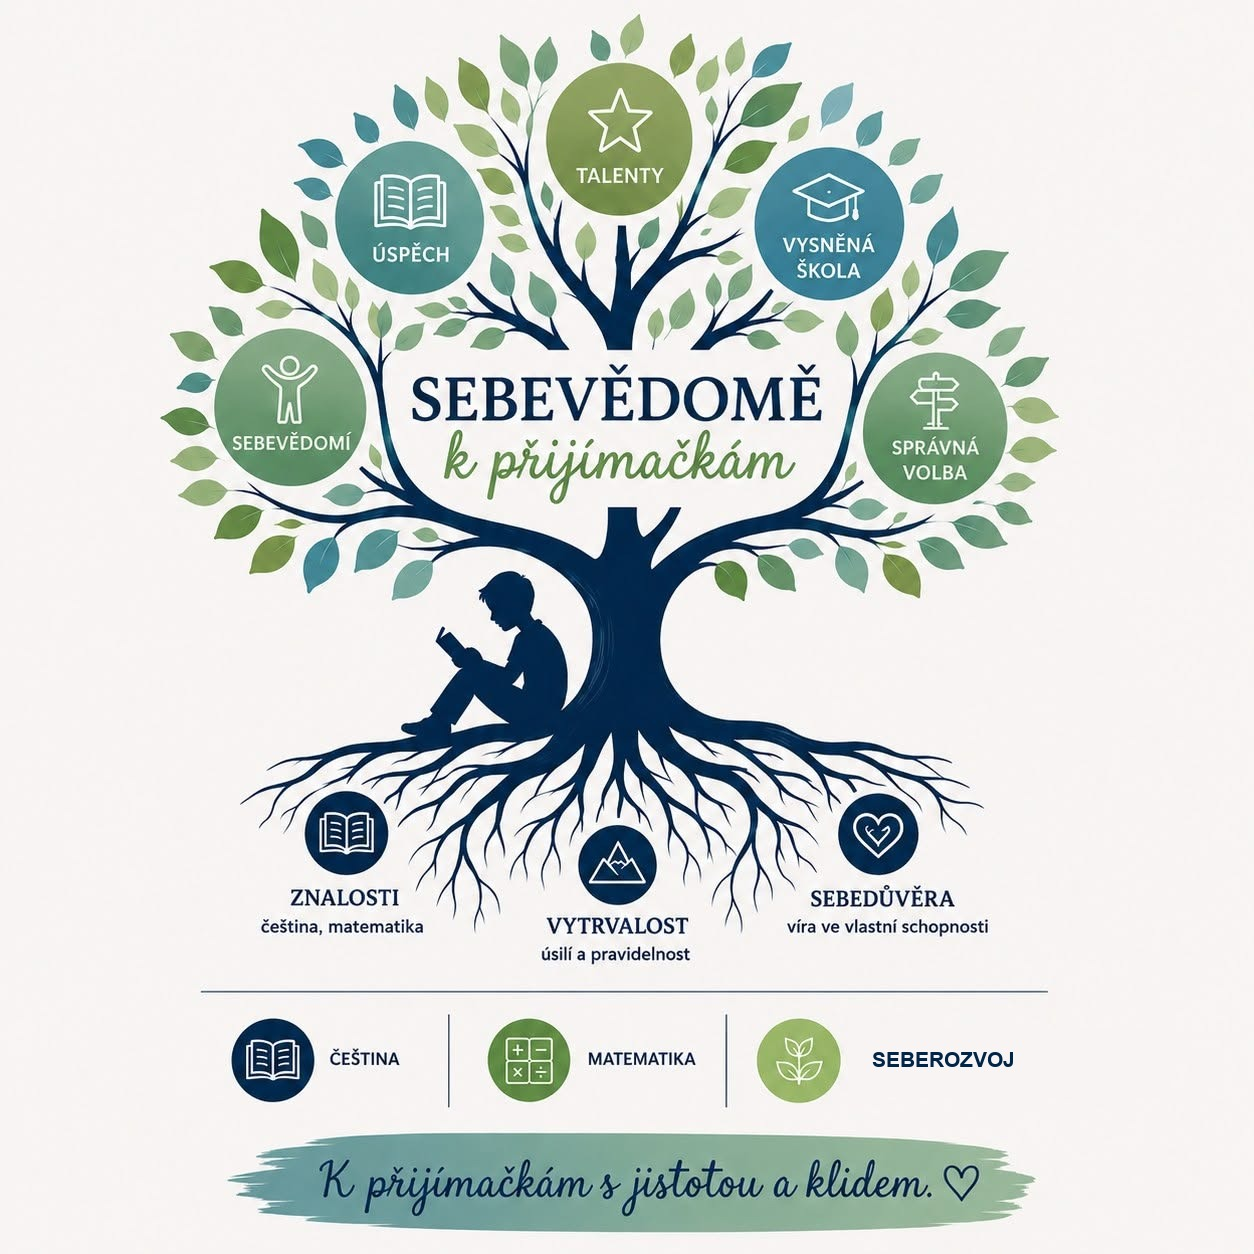
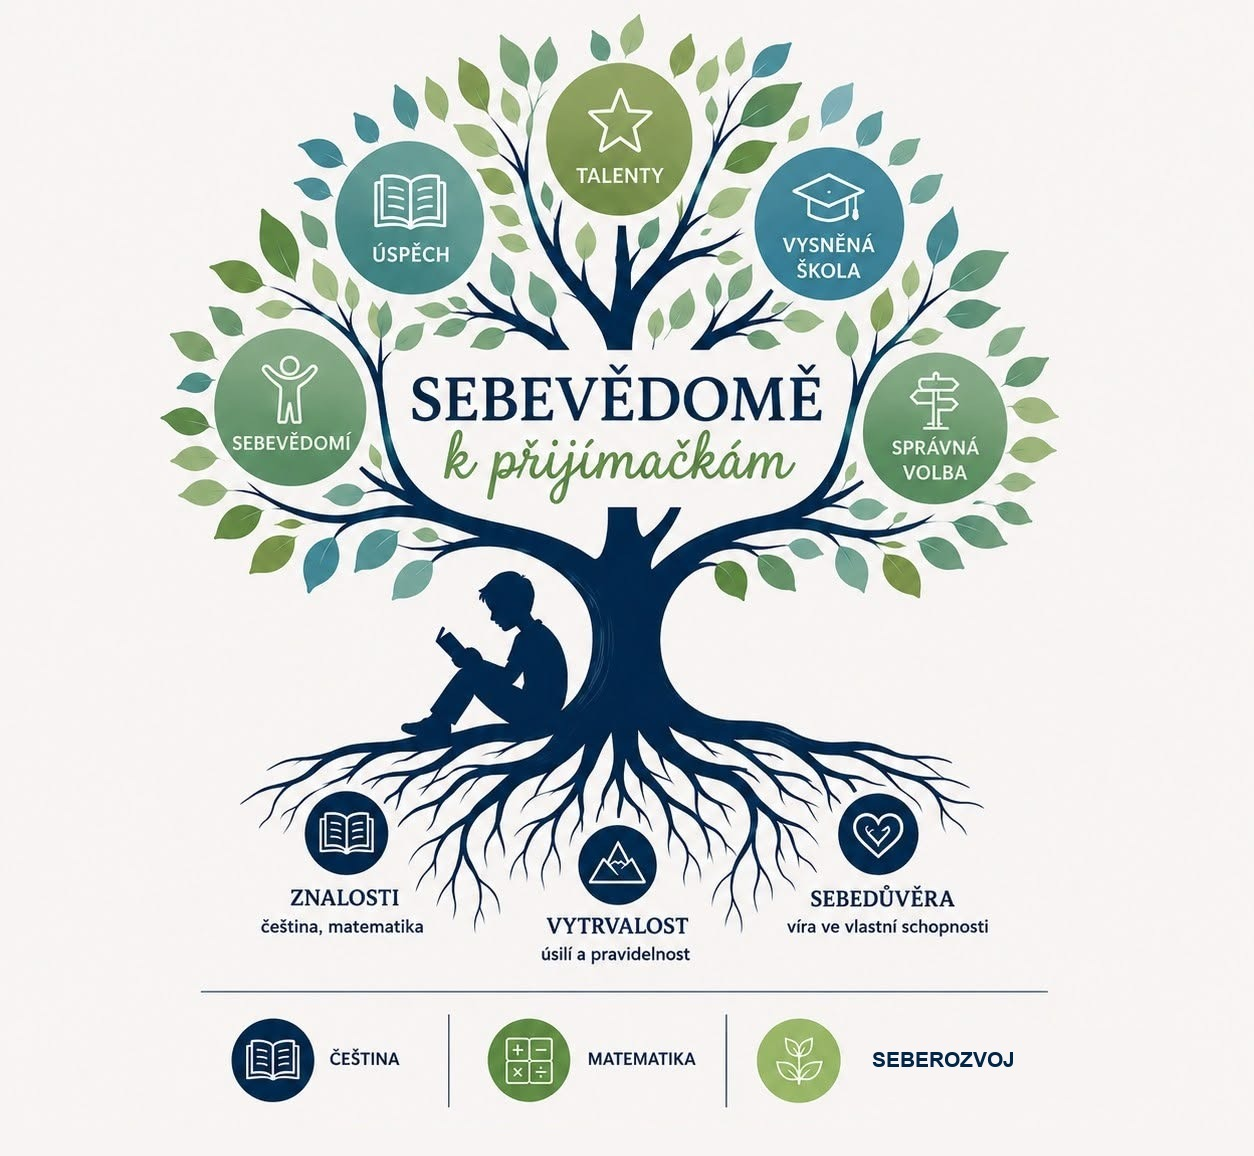
Slogan pod stromem místo textu v obrázku
Odstraněn spodní pruh s textem ze stromového obrázku na hlavní straně, text 'K přijímačkám s jistotou a klidem.' je nyní samostatný slogan pod obrázkem.

Changed region(s): [[0.1244, 0.0311, 0.8397, 0.9965]]

diff --git a/index.html b/index.html
@@ -7,7 +7,7 @@
 <link rel="preconnect" href="https://fonts.googleapis.com">
 <link rel="preconnect" href="https://fonts.gstatic.com" crossorigin>
 <link href="https://fonts.googleapis.com/css2?family=Poppins:ital,wght@0,400;0,500;0,600;0,700;1,600&family=Caveat:wght@600;700&display=swap" rel="stylesheet">
-<link rel="stylesheet" href="css/styles.css?v=173">
+<link rel="stylesheet" href="css/styles.css?v=174">
 </head>
 <body>
 
@@ -95,7 +95,11 @@
     </div>
     <div class="container how-inner">
       <div class="how-media">
-        <img src="assets/images/strom-social.jpg?v=2" alt="Strom Sebevědomě k přijímačkám" class="tree-graphic">
+        <img src="assets/images/strom-social.jpg?v=3" alt="Strom Sebevědomě k přijímačkám" class="tree-graphic">
+        <p class="tree-slogan">
+          K přijímačkám s jistotou a klidem.
+          <svg viewBox="0 0 24 24" fill="none" stroke="currentColor" stroke-width="1.6"><path d="M12 20s-7-4.5-9-9c-1.3-3 1-6 4-6 2 0 3.5 1.2 5 3 1.5-1.8 3-3 5-3 3 0 5.3 3 4 6-2 4.5-9 9-9 9Z"/></svg>
+        </p>
       </div>
       <div class="how-text">
         <ul class="how-list">

diff --git a/css/styles.css b/css/styles.css
@@ -264,6 +264,20 @@ a { color: inherit; text-decoration: none; }
 /* How */
 .how-inner { display: grid; grid-template-columns: 0.9fr 1.1fr; gap: 48px; align-items: center; }
 .tree-graphic { border-radius: 16px; }
+.tree-slogan {
+  font-family: var(--font-sans);
+  font-style: italic;
+  font-weight: 600;
+  font-size: 1.1rem;
+  color: var(--color-navy);
+  text-align: center;
+  margin: 16px 0 0;
+  display: flex;
+  align-items: center;
+  justify-content: center;
+  gap: 8px;
+}
+.tree-slogan svg { width: 22px; height: 22px; color: var(--color-accent); flex-shrink: 0; }
 .how-list { list-style: none; padding: 0; margin: 0; display: flex; flex-direction: column; gap: 22px; }
 .how-list li { display: flex; gap: 16px; align-items: flex-start; }
 .how-icon { width: 44px; height: 44px; flex-shrink: 0; }
